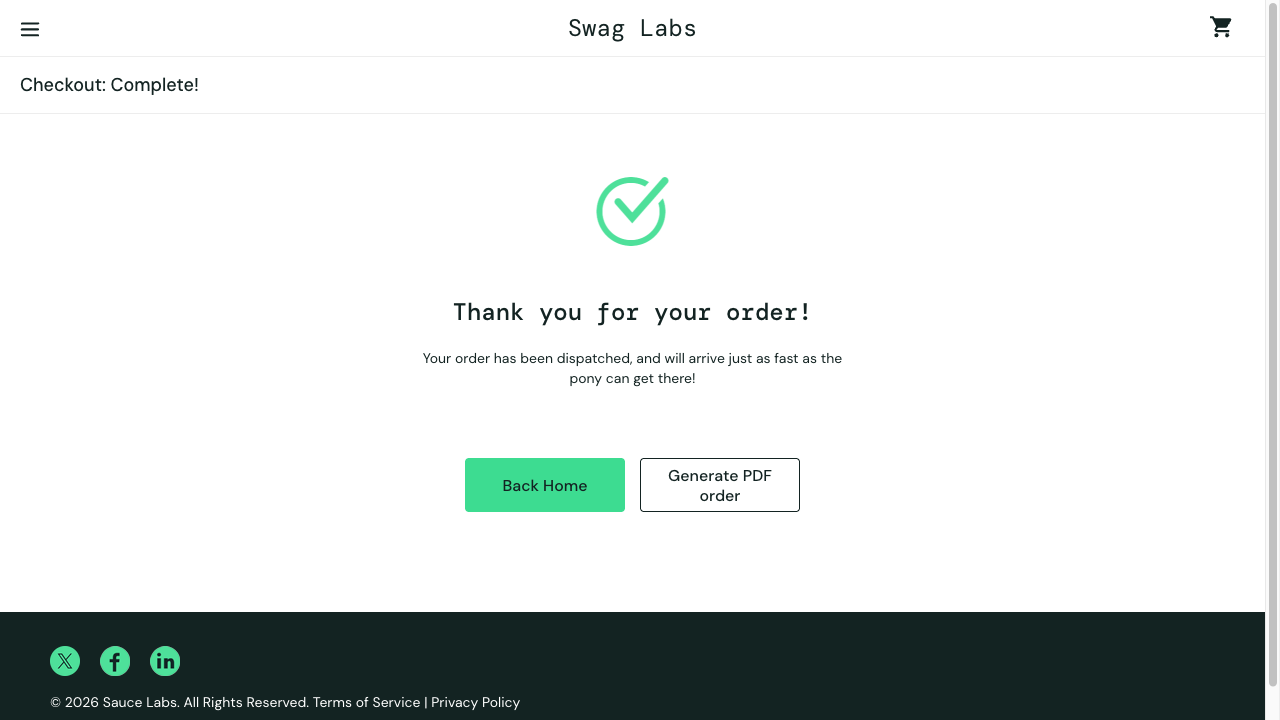
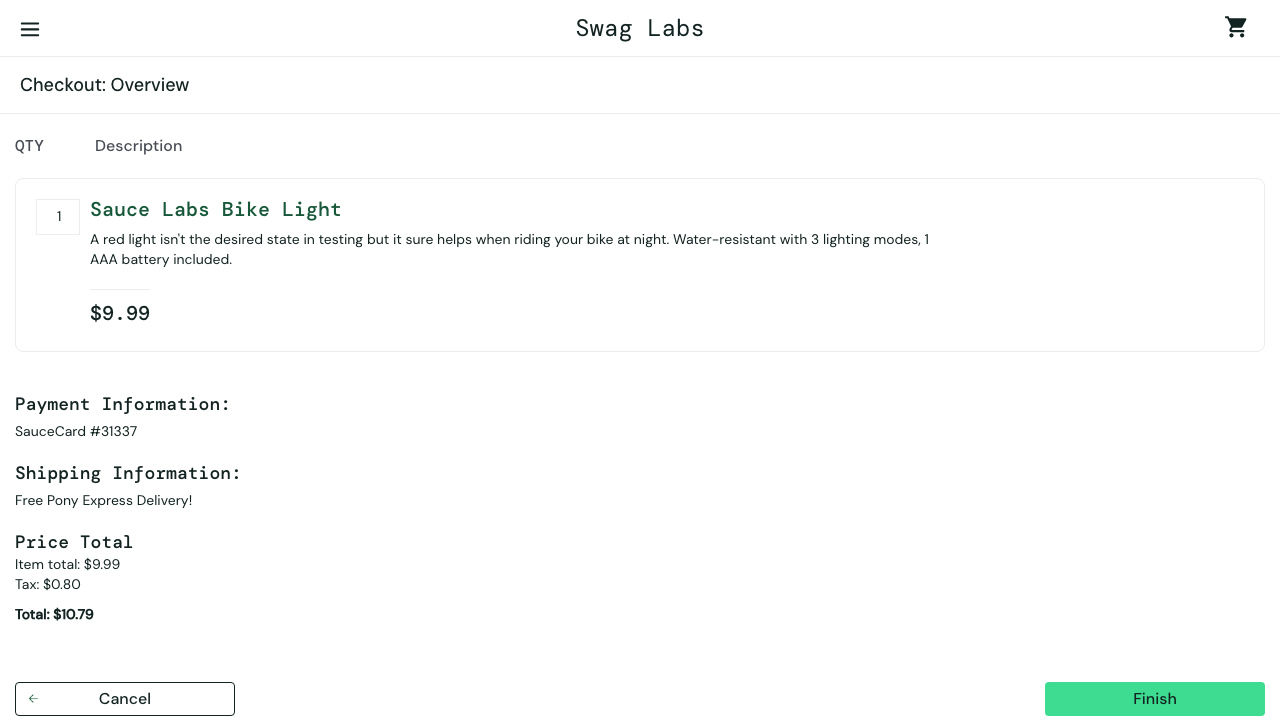
updated the code for assertion error

diff --git a/tests/test_checkout.py b/tests/test_checkout.py
@@ -1,3 +1,5 @@
+import time
+
 import pytest
 import test_data.products as products
 
@@ -34,12 +36,11 @@ class TestCheckout:
         await checkout_page.click_continue()
 
         # Step 6: Verify Checkout Overview page
-        assert await products_page.page.get_by_text(
-            "Checkout: Overview"
-        ).is_visible()
+        await products_page.page.get_by_text("Checkout: Overview").wait_for(state="visible")
 
         # Step 7: Finish checkout
         await checkout_page.click_finish()
+        time.sleep(2)
 
         # Step 8: Verify successful order
         assert await products_page.page.get_by_text(
